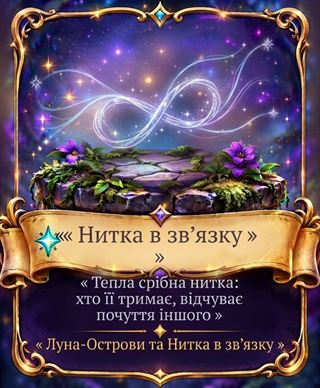
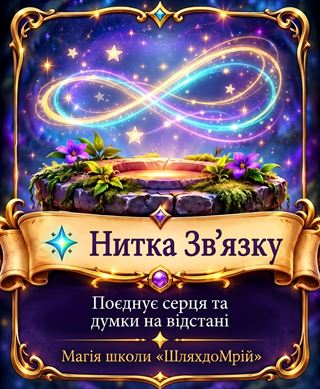
Живі артефакти на сторінці Світ (14 GIF), менші картки; виправлена Нитка Зв'язку

diff --git a/assets/js/app.js b/assets/js/app.js
@@ -32,6 +32,16 @@
       : `<div class="card art-card no-img"><div class="body"><div class="tc-ico">✨</div><h3>${esc(a.name)}</h3><p>${esc(a.desc)}</p>${extra}</div></div>`;
   }
 
+  /* артефакти зі «живими» GIF (assets/img/artifacts/<id>.gif) */
+  const ART_GIF = new Set(["abacus", "friendship_scent", "emotion_clock", "farbogray", "dodaysyl", "feeling_key", "compass", "crystal", "whisper_shell", "empathy_seed", "bond_thread", "farbosvit", "zbyrayznan", "bell_tower"]);
+  function worldArtCard(a) {
+    const open = a.stories.some((id) => store.get("read", {})[id]), gif = open && a.img && ART_GIF.has(a.id);
+    const chips = `<div class="chips">${a.stories.map(storyLink).join("")}</div>`;
+    if (!a.img) return artCard(a, chips);
+    return `<div class="card art-card${open ? " open" : ""}${gif ? " has-gif" : ""}"${gif ? ` data-gif="${a.img}.gif" tabindex="0" role="button" aria-pressed="false" aria-label="Оживити артефакт: ${esc(a.name)}"` : ""}>
+      ${artImg(a)}${gif ? '<span class="art-play" aria-hidden="true">✨</span>' : ""}<div class="body">${chips}</div></div>`;
+  }
+
   /* «до / після»: перетворення персонажа (assets/img/villains/<id>-before|-after) */
   function transform(v) {
     if (!v.img) return "";
@@ -646,9 +656,24 @@
         <div class="wrap"><aside class="map-panel card" id="panel" aria-live="polite"></aside></div>
       </section>
       <section class="scene-view" id="scene" hidden></section>
-      <section class="section wrap" id="artifacts"><h2>Чарівні артефакти</h2><div class="grid art-grid">${C.artifacts.map((a) => artCard(a, `<div class="chips">${a.stories.map(storyLink).join("")}</div>`)).join("")}</div></section>`;
+      <section class="section wrap" id="artifacts"><h2>Чарівні артефакти</h2>
+        <p class="lead">Картки, які вже відкрито у Скарбниці, світяться. Натисни на таку картку — і артефакт оживе!</p>
+        <div class="grid art-grid art-grid-sm">${C.artifacts.map(worldArtCard).join("")}</div></section>`;
 
     const panel = $("#panel", main), scene = $("#scene", main), mapView = $("#mapView", main);
+    // артефакти: відкриті у Скарбниці світяться й оживають (GIF) від натискання
+    main.querySelectorAll(".art-card.has-gif").forEach((card) => {
+      const img = $(".art-img", card), name = card.getAttribute("aria-label");
+      const toggle = (e) => {
+        if (e.target.closest("a")) return;
+        const on = !card.classList.contains("alive");
+        if (on) { img.dataset.src = img.getAttribute("src"); img.dataset.srcset = img.getAttribute("srcset") || ""; img.dataset.sizes = img.getAttribute("sizes") || ""; img.removeAttribute("srcset"); img.removeAttribute("sizes"); img.src = `${card.dataset.gif}`; }
+        else { if (img.dataset.sizes) img.setAttribute("sizes", img.dataset.sizes); if (img.dataset.srcset) img.setAttribute("srcset", img.dataset.srcset); img.src = img.dataset.src; }
+        card.classList.toggle("alive", on); card.setAttribute("aria-pressed", String(on));
+      };
+      card.addEventListener("click", toggle);
+      card.addEventListener("keydown", (e) => { if (e.key === "Enter" || e.key === " ") { e.preventDefault(); toggle(e); } });
+    });
     // на телефоні карта ширша за екран: починаємо з центру
     requestAnimationFrame(() => { const w = $(".map-full .map-wrap", main); if (w && w.scrollWidth > w.clientWidth) w.scrollLeft = (w.scrollWidth - w.clientWidth) / 2; });
 

diff --git a/assets/css/saga3.css b/assets/css/saga3.css
@@ -585,3 +585,19 @@ svg.map.alive { box-shadow: 0 0 0 4px #ffe066, 0 0 40px rgba(255, 224, 102, .6);
 .gate-star.ready::after { animation: gem-pulse 1.4s ease-in-out infinite; }
 .school-hero.alive .gate-star.ready::after { background: radial-gradient(circle, rgba(200, 190, 255, .9), rgba(162, 155, 254, 0) 70%); }
 @media (max-width: 640px) { .gate-star { width: 36px; height: 36px; margin: -18px 0 0 -18px; } }
+
+/* артефакти на сторінці «Світ»: удвічі менші, відкриті світяться й оживають */
+.art-grid.art-grid-sm { grid-template-columns: repeat(auto-fill, minmax(110px, 1fr)); gap: 12px; }
+.art-grid-sm .art-card .body { padding: 8px; }
+.art-grid-sm .art-card .chips { gap: 4px; }
+.art-grid-sm .art-card .chip { font-size: .72rem; padding: 2px 7px; }
+.art-grid-sm .art-card.open { box-shadow: 0 0 0 3px #ffe066, 0 0 18px rgba(255, 224, 102, .75); }
+.art-grid-sm .art-card.open .art-img { animation: art-shine 2.4s ease-in-out infinite; }
+@keyframes art-shine { 50% { filter: brightness(1.12) saturate(1.15); } }
+.art-grid-sm .art-card.has-gif { cursor: pointer; }
+.art-grid-sm .art-card.has-gif:focus-visible { outline: 3px solid var(--magic); outline-offset: 3px; }
+.art-play { position: absolute; top: 6px; right: 6px; width: 28px; height: 28px; border-radius: 50%; display: grid; place-items: center; font-size: 15px;
+  background: rgba(28, 18, 51, .75); box-shadow: 0 0 0 2px #ffe066; pointer-events: none; }
+.art-card.alive .art-play { background: #ffe066; }
+.art-card.alive .art-img { animation: none; }
+@media (prefers-reduced-motion: reduce) { .art-grid-sm .art-card.open .art-img { animation: none; } }

diff --git a/lesson.html b/lesson.html
@@ -9,11 +9,11 @@
 <link rel="preconnect" href="https://fonts.googleapis.com">
 <link rel="preconnect" href="https://fonts.gstatic.com" crossorigin>
 <link rel="stylesheet" href="https://fonts.googleapis.com/css2?family=Nunito:wght@400;600;700;800;900&family=Pangolin&display=swap&subset=cyrillic">
-<link rel="stylesheet" href="assets/css/site.css?v=20261123205725">
-<link rel="stylesheet" href="assets/css/saga3.css?v=20261123205725">
-<script src="assets/js/data.js?v=20261123205725" defer></script>
-<script src="assets/js/app.js?v=20261123205725" defer></script>
-<script src="assets/js/lessons.js?v=20261123205725" defer></script>
+<link rel="stylesheet" href="assets/css/site.css?v=20261123213104">
+<link rel="stylesheet" href="assets/css/saga3.css?v=20261123213104">
+<script src="assets/js/data.js?v=20261123213104" defer></script>
+<script src="assets/js/app.js?v=20261123213104" defer></script>
+<script src="assets/js/lessons.js?v=20261123213104" defer></script>
 </head>
 <body data-page="lesson">
 <main></main>

diff --git a/school.html b/school.html
@@ -9,11 +9,11 @@
 <link rel="preconnect" href="https://fonts.googleapis.com">
 <link rel="preconnect" href="https://fonts.gstatic.com" crossorigin>
 <link rel="stylesheet" href="https://fonts.googleapis.com/css2?family=Nunito:wght@400;600;700;800;900&family=Pangolin&display=swap&subset=cyrillic">
-<link rel="stylesheet" href="assets/css/site.css?v=20261123205725">
-<link rel="stylesheet" href="assets/css/saga3.css?v=20261123205725">
-<script src="assets/js/data.js?v=20261123205725" defer></script>
-<script src="assets/js/app.js?v=20261123205725" defer></script>
-<script src="assets/js/lessons.js?v=20261123205725" defer></script>
+<link rel="stylesheet" href="assets/css/site.css?v=20261123213104">
+<link rel="stylesheet" href="assets/css/saga3.css?v=20261123213104">
+<script src="assets/js/data.js?v=20261123213104" defer></script>
+<script src="assets/js/app.js?v=20261123213104" defer></script>
+<script src="assets/js/lessons.js?v=20261123213104" defer></script>
 </head>
 <body data-page="school">
 <main></main>

diff --git a/index.html b/index.html
@@ -9,11 +9,11 @@
 <link rel="preconnect" href="https://fonts.googleapis.com">
 <link rel="preconnect" href="https://fonts.gstatic.com" crossorigin>
 <link rel="stylesheet" href="https://fonts.googleapis.com/css2?family=Nunito:wght@400;600;700;800;900&family=Pangolin&display=swap&subset=cyrillic">
-<link rel="stylesheet" href="assets/css/site.css?v=20261123205725">
-<link rel="stylesheet" href="assets/css/saga3.css?v=20261123205725">
-<script src="assets/js/data.js?v=20261123205725" defer></script>
-<script src="assets/js/app.js?v=20261123205725" defer></script>
-<script src="assets/js/lessons.js?v=20261123205725" defer></script>
+<link rel="stylesheet" href="assets/css/site.css?v=20261123213104">
+<link rel="stylesheet" href="assets/css/saga3.css?v=20261123213104">
+<script src="assets/js/data.js?v=20261123213104" defer></script>
+<script src="assets/js/app.js?v=20261123213104" defer></script>
+<script src="assets/js/lessons.js?v=20261123213104" defer></script>
 </head>
 <body data-page="index">
 <main></main>

diff --git a/read.html b/read.html
@@ -9,10 +9,10 @@
 <link rel="preconnect" href="https://fonts.googleapis.com">
 <link rel="preconnect" href="https://fonts.gstatic.com" crossorigin>
 <link rel="stylesheet" href="https://fonts.googleapis.com/css2?family=Nunito:wght@400;600;700;800;900&family=Pangolin&display=swap&subset=cyrillic">
-<link rel="stylesheet" href="assets/css/site.css?v=20261123205725">
-<link rel="stylesheet" href="assets/css/saga3.css?v=20261123205725">
-<script src="assets/js/data.js?v=20261123205725" defer></script>
-<script src="assets/js/app.js?v=20261123205725" defer></script>
+<link rel="stylesheet" href="assets/css/site.css?v=20261123213104">
+<link rel="stylesheet" href="assets/css/saga3.css?v=20261123213104">
+<script src="assets/js/data.js?v=20261123213104" defer></script>
+<script src="assets/js/app.js?v=20261123213104" defer></script>
 </head>
 <body class="reader" data-page="read">
 <header class="top reader-top">

diff --git a/treasures.html b/treasures.html
@@ -9,10 +9,10 @@
 <link rel="preconnect" href="https://fonts.googleapis.com">
 <link rel="preconnect" href="https://fonts.gstatic.com" crossorigin>
 <link rel="stylesheet" href="https://fonts.googleapis.com/css2?family=Nunito:wght@400;600;700;800;900&family=Pangolin&display=swap&subset=cyrillic">
-<link rel="stylesheet" href="assets/css/site.css?v=20261123205725">
-<link rel="stylesheet" href="assets/css/saga3.css?v=20261123205725">
-<script src="assets/js/data.js?v=20261123205725" defer></script>
-<script src="assets/js/app.js?v=20261123205725" defer></script>
+<link rel="stylesheet" href="assets/css/site.css?v=20261123213104">
+<link rel="stylesheet" href="assets/css/saga3.css?v=20261123213104">
+<script src="assets/js/data.js?v=20261123213104" defer></script>
+<script src="assets/js/app.js?v=20261123213104" defer></script>
 </head>
 <body data-page="treasures">
 <main></main>

diff --git a/library.html b/library.html
@@ -9,10 +9,10 @@
 <link rel="preconnect" href="https://fonts.googleapis.com">
 <link rel="preconnect" href="https://fonts.gstatic.com" crossorigin>
 <link rel="stylesheet" href="https://fonts.googleapis.com/css2?family=Nunito:wght@400;600;700;800;900&family=Pangolin&display=swap&subset=cyrillic">
-<link rel="stylesheet" href="assets/css/site.css?v=20261123205725">
-<link rel="stylesheet" href="assets/css/saga3.css?v=20261123205725">
-<script src="assets/js/data.js?v=20261123205725" defer></script>
-<script src="assets/js/app.js?v=20261123205725" defer></script>
+<link rel="stylesheet" href="assets/css/site.css?v=20261123213104">
+<link rel="stylesheet" href="assets/css/saga3.css?v=20261123213104">
+<script src="assets/js/data.js?v=20261123213104" defer></script>
+<script src="assets/js/app.js?v=20261123213104" defer></script>
 </head>
 <body data-page="library">
 <main></main>

diff --git a/heroes.html b/heroes.html
@@ -9,10 +9,10 @@
 <link rel="preconnect" href="https://fonts.googleapis.com">
 <link rel="preconnect" href="https://fonts.gstatic.com" crossorigin>
 <link rel="stylesheet" href="https://fonts.googleapis.com/css2?family=Nunito:wght@400;600;700;800;900&family=Pangolin&display=swap&subset=cyrillic">
-<link rel="stylesheet" href="assets/css/site.css?v=20261123205725">
-<link rel="stylesheet" href="assets/css/saga3.css?v=20261123205725">
-<script src="assets/js/data.js?v=20261123205725" defer></script>
-<script src="assets/js/app.js?v=20261123205725" defer></script>
+<link rel="stylesheet" href="assets/css/site.css?v=20261123213104">
+<link rel="stylesheet" href="assets/css/saga3.css?v=20261123213104">
+<script src="assets/js/data.js?v=20261123213104" defer></script>
+<script src="assets/js/app.js?v=20261123213104" defer></script>
 </head>
 <body data-page="heroes">
 <main></main>

diff --git a/world.html b/world.html
@@ -9,10 +9,10 @@
 <link rel="preconnect" href="https://fonts.googleapis.com">
 <link rel="preconnect" href="https://fonts.gstatic.com" crossorigin>
 <link rel="stylesheet" href="https://fonts.googleapis.com/css2?family=Nunito:wght@400;600;700;800;900&family=Pangolin&display=swap&subset=cyrillic">
-<link rel="stylesheet" href="assets/css/site.css?v=20261123205725">
-<link rel="stylesheet" href="assets/css/saga3.css?v=20261123205725">
-<script src="assets/js/data.js?v=20261123205725" defer></script>
-<script src="assets/js/app.js?v=20261123205725" defer></script>
+<link rel="stylesheet" href="assets/css/site.css?v=20261123213104">
+<link rel="stylesheet" href="assets/css/saga3.css?v=20261123213104">
+<script src="assets/js/data.js?v=20261123213104" defer></script>
+<script src="assets/js/app.js?v=20261123213104" defer></script>
 </head>
 <body data-page="world">
 <main></main>

diff --git a/shop.html b/shop.html
@@ -9,10 +9,10 @@
 <link rel="preconnect" href="https://fonts.googleapis.com">
 <link rel="preconnect" href="https://fonts.gstatic.com" crossorigin>
 <link rel="stylesheet" href="https://fonts.googleapis.com/css2?family=Nunito:wght@400;600;700;800;900&family=Pangolin&display=swap&subset=cyrillic">
-<link rel="stylesheet" href="assets/css/site.css?v=20261123205725">
-<link rel="stylesheet" href="assets/css/saga3.css?v=20261123205725">
-<script src="assets/js/data.js?v=20261123205725" defer></script>
-<script src="assets/js/app.js?v=20261123205725" defer></script>
+<link rel="stylesheet" href="assets/css/site.css?v=20261123213104">
+<link rel="stylesheet" href="assets/css/saga3.css?v=20261123213104">
+<script src="assets/js/data.js?v=20261123213104" defer></script>
+<script src="assets/js/app.js?v=20261123213104" defer></script>
 </head>
 <body data-page="shop">
 <main></main>
